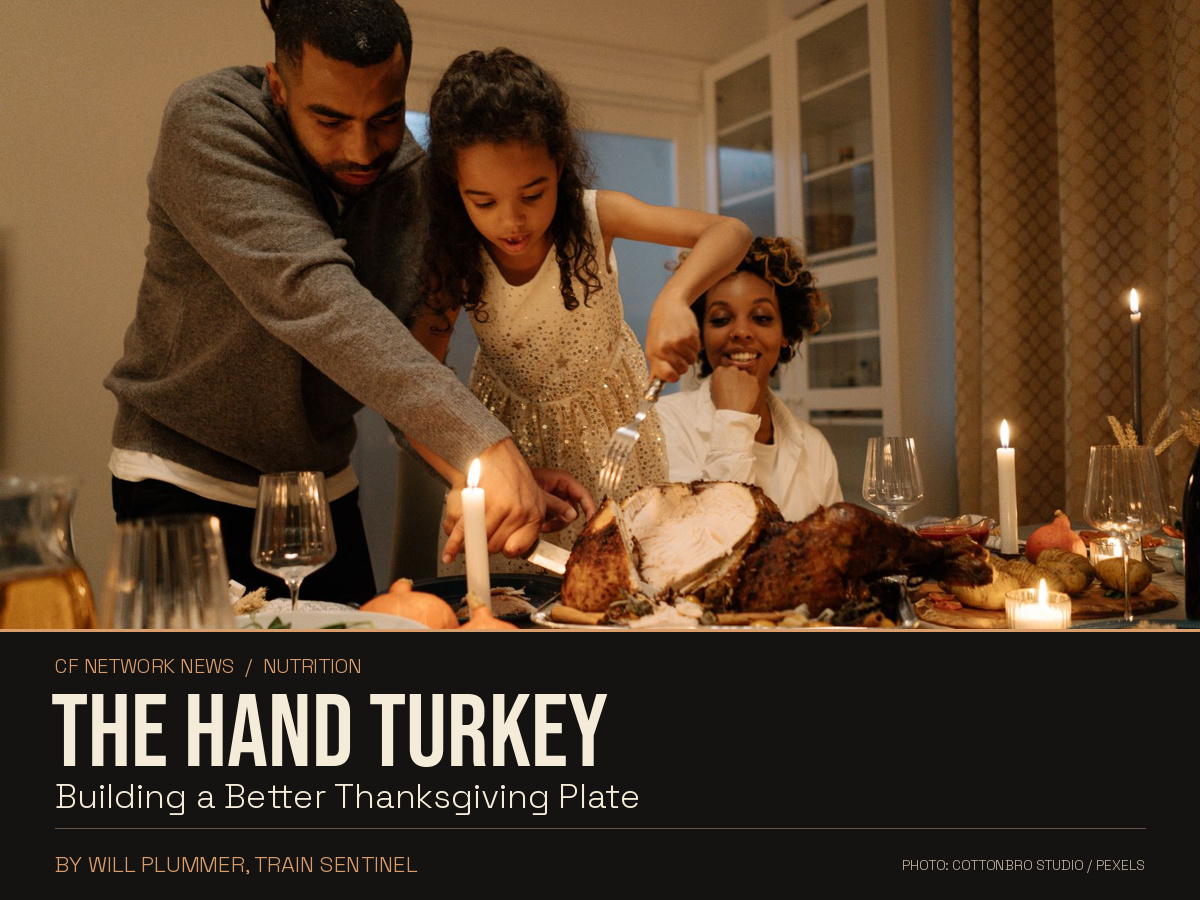
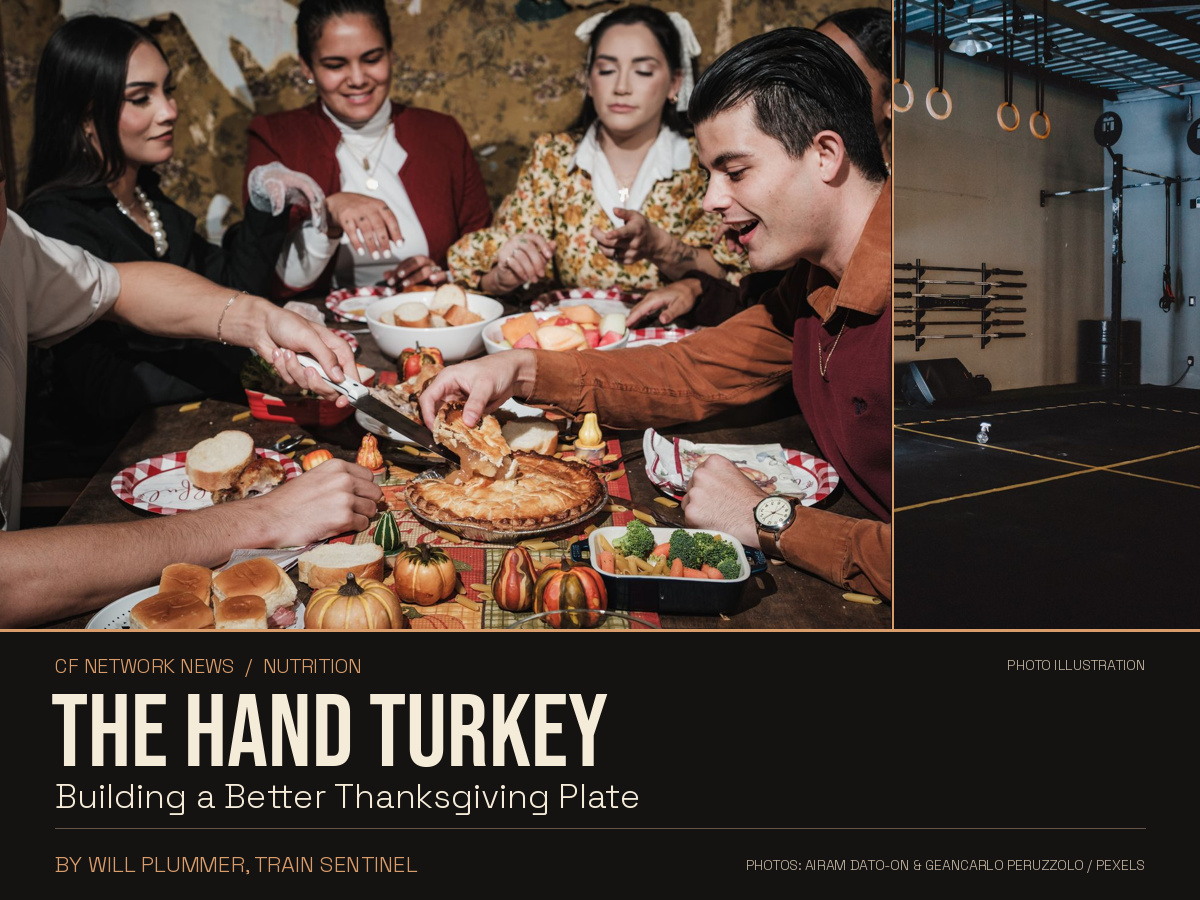
Update Hand Turkey cover photo illustration

diff --git a/news.html b/news.html
@@ -87,8 +87,8 @@
 <article id="hand-turkey-thanksgiving-plate" class="card card--article card--featured fade-in" style="margin-bottom:var(--space-6);">
   <div class="card__body">
     <div class="card__image card__image--force">
-      <img src="./assets/IMG-THANKSGIVING-HAND-TURKEY.jpg"
-           alt="A family carving turkey at a candlelit Thanksgiving dinner table"
+      <img src="./assets/IMG-THANKSGIVING-HAND-TURKEY.jpg?v=2"
+           alt="Friends sharing Thanksgiving dishes alongside a separate photo of a CrossFit gym"
            width="1200" height="900" loading="lazy">
     </div>
     <div class="card__header">

diff --git a/index.html b/index.html
@@ -90,8 +90,8 @@
 
 <a href="./news.html#hand-turkey-thanksgiving-plate" class="card">
     <div class="card__image card__image--force">
-      <img src="./assets/IMG-THANKSGIVING-HAND-TURKEY.jpg"
-           alt="A family carving turkey at a candlelit Thanksgiving dinner table"
+      <img src="./assets/IMG-THANKSGIVING-HAND-TURKEY.jpg?v=2"
+           alt="Friends sharing Thanksgiving dishes alongside a separate photo of a CrossFit gym"
            width="1200" height="900" loading="lazy">
     </div>
     <div class="card__body">
